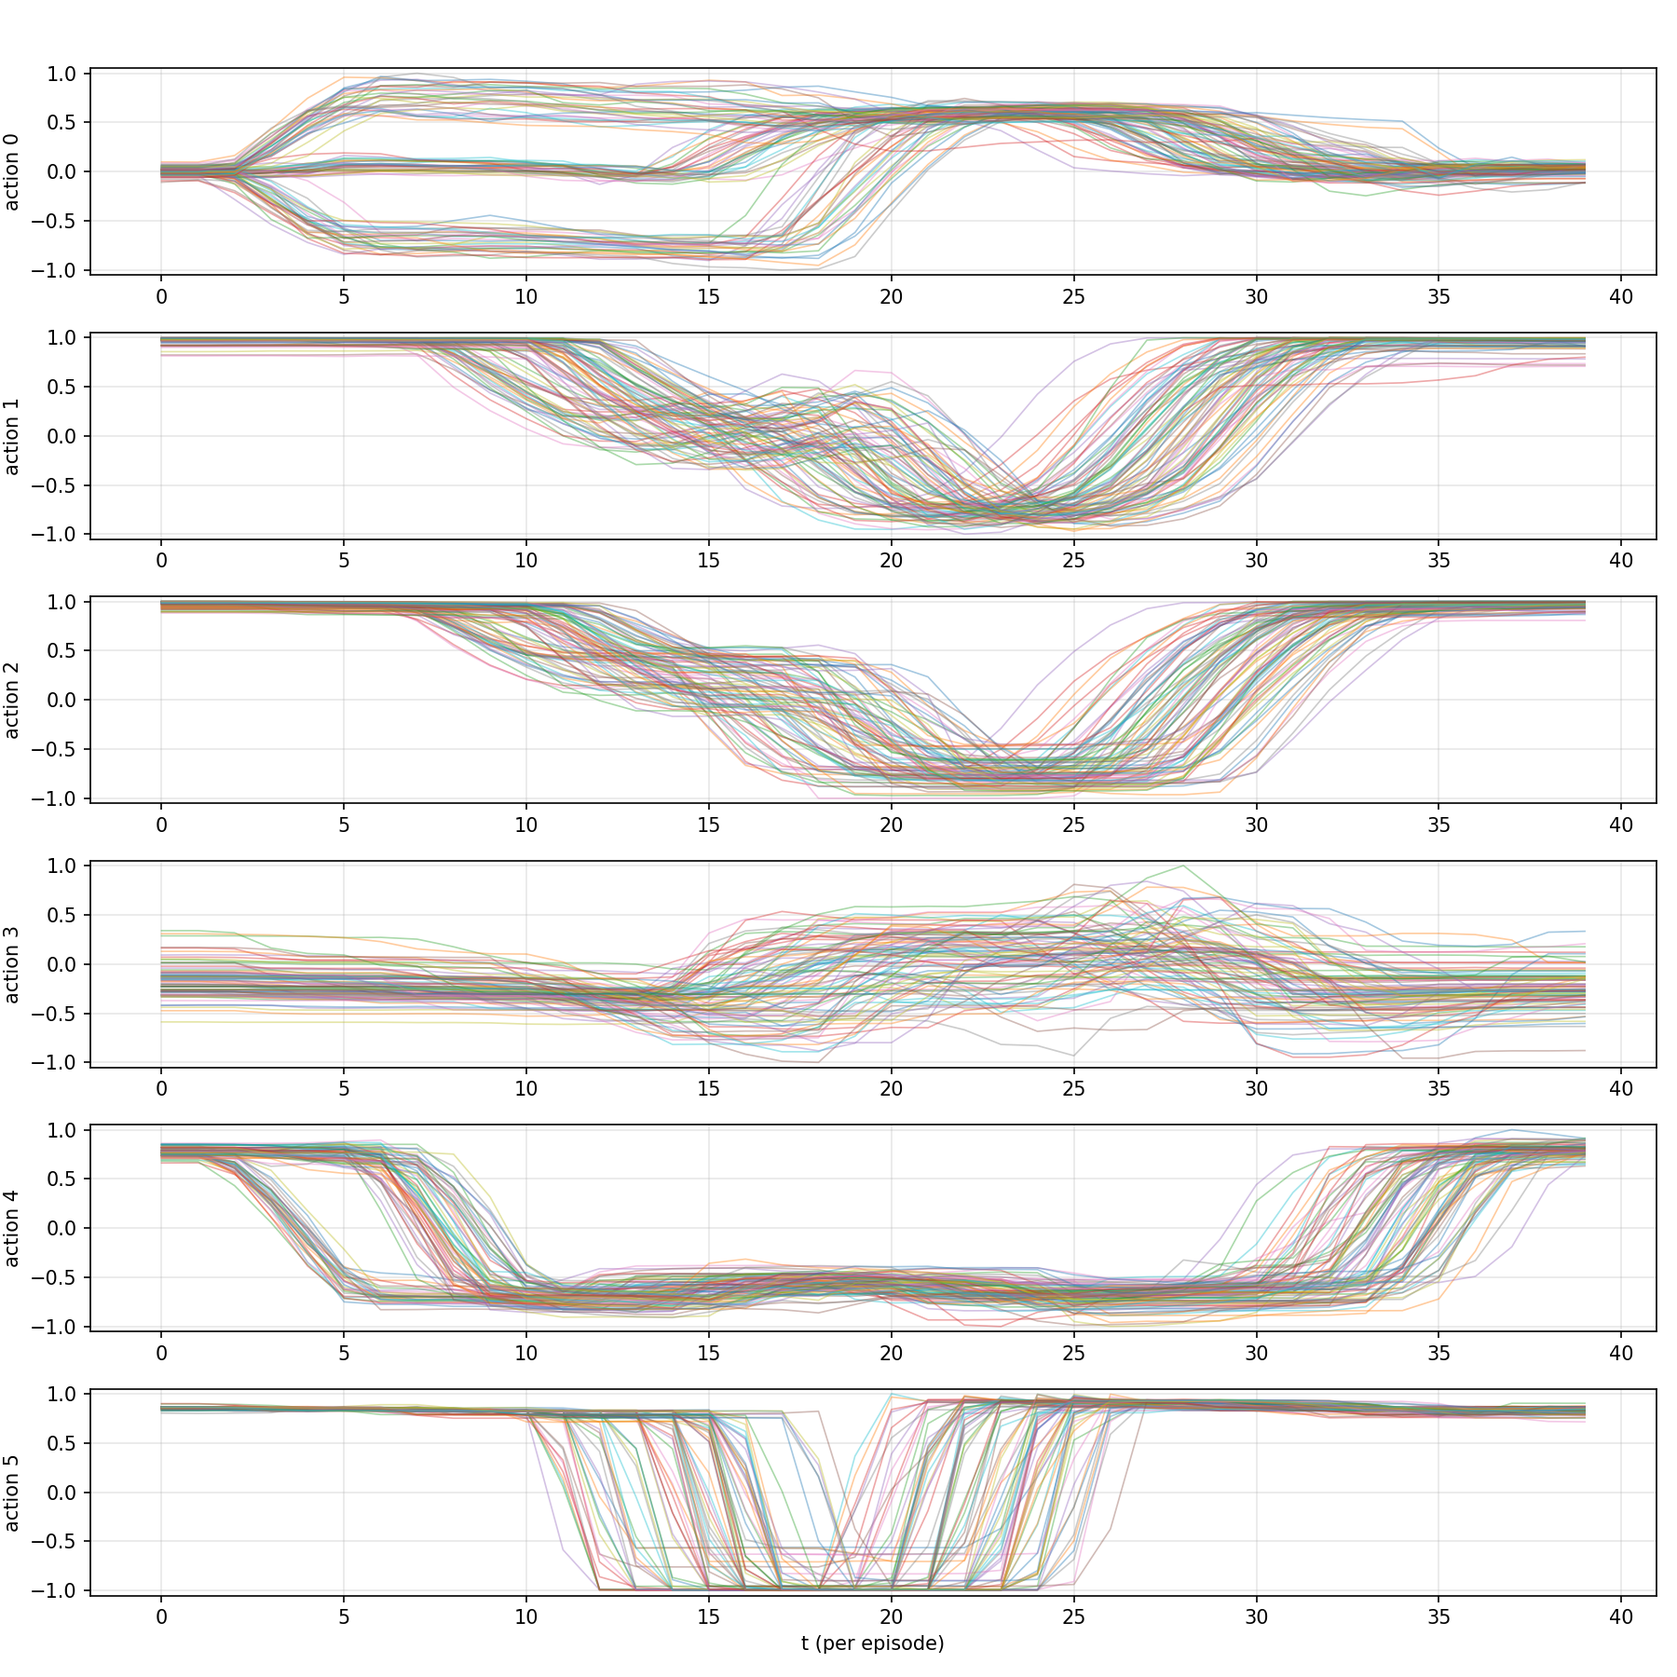
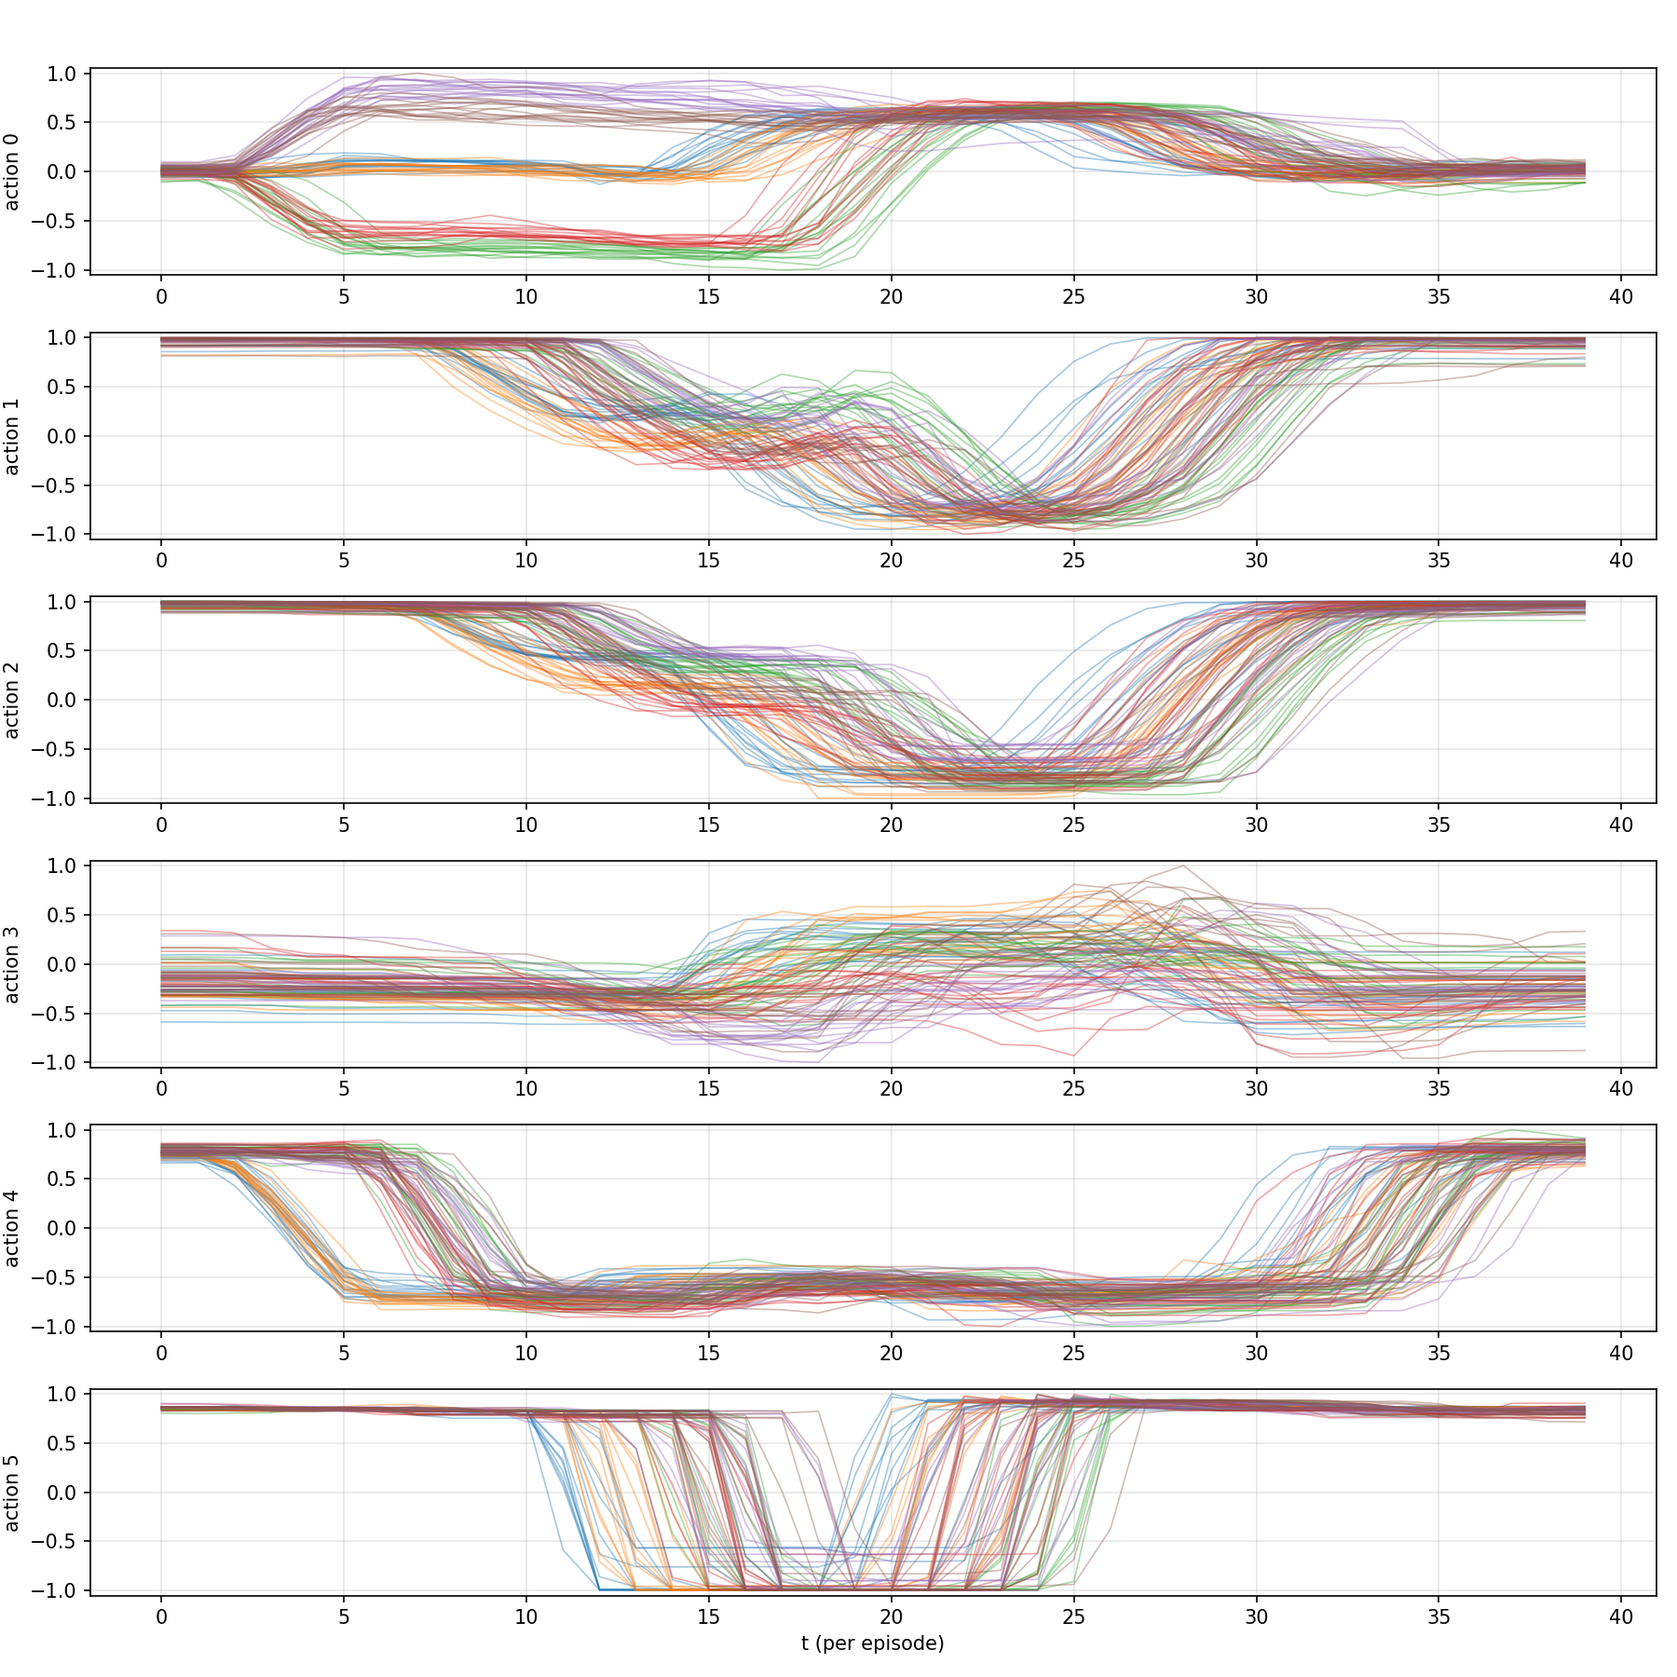
予測グラフおよびグラフの線の色を変更

diff --git a/kadai3 /src/utils/app_helpers.py b/kadai3 /src/utils/app_helpers.py
@@ -31,6 +31,7 @@ def build_model(cfg, state_dim: int, action_dim: int) -> nn.Module:
         output_dim=action_dim,
         num_layers=cfg.policy.num_layers,
         rnn_type=cfg.policy.rnn_type,
+        action_horizon=getattr(cfg.policy, "action_horizon", 1),
     )
     return VisionPolicyModel(vision=vision, policy=policy)
 
@@ -57,7 +58,7 @@ def save_action_figs(pred_all: np.ndarray, gt_all: np.ndarray | None, fig_dir: P
         return
     pred_s = _moving_avg(pred_all, win=5)
     gt_s = _moving_avg(gt_all, win=5) if gt_all is not None else None
-    if prefix == "online":
+    if prefix.startswith("online"):
         pred_s = np.clip(pred_s, -1.0, 1.0)
         if gt_s is not None:
             gt_s = np.clip(gt_s, -1.0, 1.0)
@@ -69,7 +70,7 @@ def save_action_figs(pred_all: np.ndarray, gt_all: np.ndarray | None, fig_dir: P
         ax.plot(pred_s[:, d], label="pred", linewidth=1.0)
         if gt_s is not None:
             ax.plot(gt_s[:, d], label="follower", linewidth=1.0)
-        if prefix == "online":
+        if prefix.startswith("online"):
             ax.set_ylim(-1.05, 1.05)
         ax.set_title(f"{prefix} action dim {d} (smoothed)")
         ax.legend()
@@ -85,7 +86,7 @@ def save_action_figs(pred_all: np.ndarray, gt_all: np.ndarray | None, fig_dir: P
         ax.plot(pred_s[:, d], label="pred", linewidth=1.0)
         if gt_s is not None:
             ax.plot(gt_s[:, d], label="follower", linewidth=1.0)
-        if prefix == "online":
+        if prefix.startswith("online"):
             ax.set_ylim(-1.05, 1.05)
         ax.set_title(f"Action dim {d} (smoothed)")
         ax.legend()
@@ -94,6 +95,69 @@ def save_action_figs(pred_all: np.ndarray, gt_all: np.ndarray | None, fig_dir: P
         axes[r][c].axis("off")
     fig.tight_layout()
     fig.savefig(fig_dir / f"{prefix}_action_all.png", dpi=150, bbox_inches="tight")
+    plt.close(fig)
+
+    # 実機推論の可視化用: 全次元を1枚に重ねて描画
+    if prefix == "offline_replay":
+        fig = plt.figure(figsize=(12, 4))
+        ax = fig.add_subplot(111)
+        for d in range(n_dims):
+            ax.plot(pred_s[:, d], linewidth=1.0, label=f"pred {d}")
+        if gt_s is not None:
+            for d in range(n_dims):
+                ax.plot(gt_s[:, d], linewidth=1.0, linestyle="--", label=f"state {d}")
+        ax.set_ylim(-1.05, 1.05)
+        ax.set_title("offline_replay action (all dims)")
+        ax.set_xlabel("t")
+        ax.set_ylabel("value (normalized)")
+        ax.legend(ncol=3, fontsize=8)
+        fig.tight_layout()
+        fig.savefig(fig_dir / f"{prefix}_action_all_overlay.png", dpi=150, bbox_inches="tight")
+        plt.close(fig)
+
+
+def save_chunked_action_overlay(
+    pred_all: np.ndarray,
+    gt_all: np.ndarray | None,
+    chunk_starts: list[int],
+    fig_dir: Path,
+    prefix: str,
+    title: str | None = None,
+    label_gt: str = "state",
+) -> None:
+    import matplotlib.pyplot as plt
+
+    if pred_all.size == 0:
+        return
+    pred_s = _moving_avg(pred_all, win=5)
+    if prefix.startswith("online"):
+        pred_s = np.clip(pred_s, -1.0, 1.0)
+    n_dims = pred_s.shape[1]
+
+    fig, axes = plt.subplots(nrows=n_dims, ncols=1, figsize=(12, 2 * n_dims), sharex=True)
+    if n_dims == 1:
+        axes = [axes]
+    for d, ax in enumerate(axes):
+        for i, start in enumerate(chunk_starts):
+            end = chunk_starts[i + 1] if i + 1 < len(chunk_starts) else pred_s.shape[0]
+            x = np.arange(start, end)
+            ax.plot(x, pred_s[start:end, d], linewidth=1.0, alpha=0.8, label="pred" if i == 0 else None)
+        if gt_all is not None:
+            gt_s = _moving_avg(gt_all, win=5)
+            if prefix.startswith("online"):
+                gt_s = np.clip(gt_s, -1.0, 1.0)
+            ax.plot(np.arange(gt_s.shape[0]), gt_s[:, d], linestyle="--", linewidth=1.0, label=label_gt)
+        for x0 in chunk_starts:
+            ax.axvline(x0, color="k", linestyle=":", linewidth=0.6, alpha=0.5)
+        ax.set_ylim(-1.05, 1.05)
+        ax.set_ylabel(f"dim {d}")
+        ax.grid(True, alpha=0.3)
+        if d == 0:
+            ax.legend(fontsize=8)
+    axes[-1].set_xlabel("t (observation index)")
+    fig.suptitle(title or "offline_replay action (chunked)", y=1.02)
+    fig.tight_layout()
+    fig.savefig(fig_dir / f"{prefix}_action_all_overlay.png", dpi=150, bbox_inches="tight")
     plt.close(fig)
 
 
@@ -114,12 +178,25 @@ def save_follower_plots(
     n_dims = episodes_norm[0].shape[1]
 
     def _plot_series(data_eps: list[np.ndarray], title: str, out_name: str) -> None:
+        palette = [
+            "#1f77b4",
+            "#ff7f0e",
+            "#2ca02c",
+            "#d62728",
+            "#9467bd",
+            "#8c564b",
+            "#e377c2",
+            "#7f7f7f",
+            "#bcbd22",
+            "#17becf",
+        ]
         fig, axes = plt.subplots(nrows=n_dims, ncols=1, figsize=(12, 2 * n_dims), sharex=False)
         if n_dims == 1:
             axes = [axes]
         for d, ax in enumerate(axes):
-            for ep in data_eps:
-                ax.plot(ep[:, d], linewidth=0.8, alpha=0.4)
+            for i, ep in enumerate(data_eps):
+                color = palette[(i // 15) % len(palette)]
+                ax.plot(ep[:, d], linewidth=0.8, alpha=0.4, color=color)
             ax.set_ylim(-1.05, 1.05)
             ax.set_ylabel(f"joint {d}")
             ax.grid(True, alpha=0.3)
@@ -181,6 +258,8 @@ def online_test(
             state = state.to(device)
             action = action.to(device)
             pred, _, _ = model(image, state)
+            if pred.ndim == 4:
+                pred = pred[:, :, 0, :]
 
             pred_np = pred.detach().cpu().numpy().reshape(-1, pred.shape[-1])
             gt_np = action.detach().cpu().numpy().reshape(-1, action.shape[-1])
@@ -257,6 +336,7 @@ def run_replay(cfg, model: nn.Module, state_norm: Normalizer, action_norm: Norma
             time.sleep(0.2)
 
     pred_actions: list[np.ndarray] = []
+    gt_states: list[np.ndarray] = []
     frames: list[Image.Image] = []
 
     print(
@@ -272,6 +352,12 @@ def run_replay(cfg, model: nn.Module, state_norm: Normalizer, action_norm: Norma
     model.eval()
 
     h: torch.Tensor | None = None
+    action_horizon = int(getattr(cfg.policy, "action_horizon", 1) or 1)
+    action_chunk = int(getattr(cfg.replay, "action_chunk", 1) or 1)
+    chunk = max(action_horizon, action_chunk, 1)
+    cached_actions: np.ndarray | None = None
+    cached_idx = 0
+    chunk_starts: list[int] = []
     # --- 2. リアルタイム制御ループ（指定ステップ数分繰り返す） ---
     for step_idx in range(int(cfg.replay.steps)):
         # カメラ映像とロボットの現在の関節角度（state）を取得
@@ -330,18 +416,27 @@ def run_replay(cfg, model: nn.Module, state_norm: Normalizer, action_norm: Norma
         state_in = torch.tensor(state_np, dtype=torch.float32, device=device).unsqueeze(0)  # [1,1,D]
 
         # --- 5. モデルによる推論（意思決定） ---
-        with torch.no_grad():
-            action_seq, h = model.forward_step(image_in, state_in, h)
-            h = h.detach() if h is not None else None
-            action_normed = action_seq[0, 0].detach().cpu().numpy()
+        if step_idx % chunk == 0 or cached_actions is None or cached_idx >= len(cached_actions):
+            with torch.no_grad():
+                action_seq, h = model.forward_step(image_in, state_in, h)
+                h = h.detach() if h is not None else None
+                if action_seq.ndim == 4:
+                    cached_actions = action_seq[0, 0].detach().cpu().numpy()
+                else:
+                    cached_actions = action_seq[0, 0].detach().cpu().numpy()[None, :]
+            cached_idx = 0
+            chunk_starts.append(len(pred_actions))
+        action_normed = cached_actions[min(cached_idx, len(cached_actions) - 1)]
+        cached_idx += 1
         print(f"Action predicted (normalized): {action_normed}")
-        
+
         # 正規化された数値を「実際のロボットの角度」に復元（逆正規化）
         action = action_norm.denormalize(action_normed)
         action_t = torch.tensor(action, dtype=torch.float32)
-        
+
         # グラフ作成用に推論結果を記録（正規化スケールのまま）
         pred_actions.append(action_normed)
+        gt_states.append(state_np[0].copy())
 
         # --- 6. ロボットへの指令送信 ---
         if cfg.replay.send_action:
@@ -351,9 +446,73 @@ def run_replay(cfg, model: nn.Module, state_norm: Normalizer, action_norm: Norma
                 fps=cfg.replay.fps,
             )
 
+        # 可視化用に途中経過を保存（重いので間引く）
+        viz_every = int(getattr(cfg.replay, "viz_every", 10) or 10)
+        if viz_every > 0 and (step_idx + 1) % viz_every == 0:
+            pred_arr = np.asarray(pred_actions, dtype=np.float32)
+            gt_arr = np.asarray(gt_states, dtype=np.float32)
+            if pred_arr.shape[1] != gt_arr.shape[1]:
+                d = min(pred_arr.shape[1], gt_arr.shape[1])
+                pred_arr = pred_arr[:, :d]
+                gt_arr = gt_arr[:, :d]
+            save_action_figs(pred_all=pred_arr, gt_all=gt_arr, fig_dir=fig_dir, prefix="offline_replay")
+
     # 全ステップ終了後、アクションの推移グラフを保存して終了
     if pred_actions:
-        save_action_figs(pred_all=np.asarray(pred_actions, dtype=np.float32), gt_all=None, fig_dir=fig_dir, prefix="offline")
+        pred_arr = np.asarray(pred_actions, dtype=np.float32)
+        gt_arr = np.asarray(gt_states, dtype=np.float32) if gt_states else None
+        if gt_arr is not None and pred_arr.shape[1] != gt_arr.shape[1]:
+            d = min(pred_arr.shape[1], gt_arr.shape[1])
+            pred_arr = pred_arr[:, :d]
+            gt_arr = gt_arr[:, :d]
+        save_action_figs(pred_all=pred_arr, gt_all=gt_arr, fig_dir=fig_dir, prefix="offline_replay")
+        if chunk_starts:
+            # 実機フォロワーとの比較
+            save_chunked_action_overlay(
+                pred_all=pred_arr,
+                gt_all=gt_arr,
+                chunk_starts=chunk_starts,
+                fig_dir=fig_dir,
+                prefix="offline_replay",
+                title="offline_replay action (vs real follower)",
+                label_gt="real follower",
+            )
+            # 学習時フォロワーとの比較
+            train_eps, test_eps = load_episodes(cfg)
+            train_states = [np.asarray(ep["state"], dtype=np.float32) for ep in (train_eps + test_eps)]
+            if train_states:
+                train_all = np.concatenate(train_states, axis=0).astype(np.float32)
+                train_norm = state_norm.normalize(train_all)
+                save_chunked_action_overlay(
+                    pred_all=pred_arr,
+                    gt_all=train_norm,
+                    chunk_starts=chunk_starts,
+                    fig_dir=fig_dir,
+                    prefix="offline_replay_train",
+                    title="offline_replay action (vs train follower)",
+                    label_gt="train follower",
+                )
+                # 右側に joint_states_normalized を並べて1枚にする
+                try:
+                    from PIL import Image
+
+                    left_path = fig_dir / "offline_replay_train_action_all_overlay.png"
+                    right_path = fig_dir / "joint_states_normalized.png"
+                    if left_path.exists() and right_path.exists():
+                        left = Image.open(left_path).convert("RGB")
+                        right = Image.open(right_path).convert("RGB")
+                        height = max(left.height, right.height)
+                        # 高さを揃える
+                        if left.height != height:
+                            left = left.resize((int(left.width * height / left.height), height))
+                        if right.height != height:
+                            right = right.resize((int(right.width * height / right.height), height))
+                        merged = Image.new("RGB", (left.width + right.width, height), (255, 255, 255))
+                        merged.paste(left, (0, 0))
+                        merged.paste(right, (left.width, 0))
+                        merged.save(left_path)
+                except Exception:
+                    pass
 
     if frames:
         gif_path = fig_dir / "online_camera.gif"

diff --git a/kadai3 /src/models/policy.py b/kadai3 /src/models/policy.py
@@ -12,8 +12,10 @@ class PolicyNetwork(nn.Module):
         output_dim: int,
         num_layers: int = 1,
         rnn_type: str = "rnn",
+        action_horizon: int = 1,
     ):
         super().__init__()
+        self.action_horizon = int(action_horizon)
         rnn_type = rnn_type.lower()
         if rnn_type == "gru":
             self.rnn = nn.GRU(input_dim, hidden_dim, num_layers=num_layers, batch_first=True)
@@ -21,7 +23,8 @@ class PolicyNetwork(nn.Module):
             self.rnn = nn.RNN(input_dim, hidden_dim, num_layers=num_layers, batch_first=True)
         else:
             raise ValueError(f"Unsupported rnn_type: {rnn_type}")
-        self.head = nn.Linear(hidden_dim, output_dim)
+        # 出力ヘッドの次元を拡張
+        self.head = nn.Linear(hidden_dim, output_dim * max(self.action_horizon, 1))
 
     def forward(
         self,
@@ -32,7 +35,12 @@ class PolicyNetwork(nn.Module):
         # features: [B, S, F], state: [B, S, Dq] -> action_hat: [B, S, Da]
         x = torch.cat([features, state], dim=-1)
         out, h_next = self.rnn(x, h)
-        return self.head(out), h_next
+        pred = self.head(out)
+        if self.action_horizon > 1:
+            # 出力を[B,T,K,Daに整形]
+            b, t, _ = pred.shape
+            pred = pred.view(b, t, self.action_horizon, -1)
+        return pred, h_next
 
     def forward_step(
         self,
@@ -43,4 +51,8 @@ class PolicyNetwork(nn.Module):
         # features/state: [B, 1, *] -> action_hat: [B, 1, Da]
         x = torch.cat([features, state], dim=-1)
         out, h_next = self.rnn(x, h)
-        return self.head(out), h_next
+        pred = self.head(out)
+        if self.action_horizon > 1:
+            b, t, _ = pred.shape
+            pred = pred.view(b, t, self.action_horizon, -1)
+        return pred, h_next

diff --git a/kadai3 /src/trainer/trainer.py b/kadai3 /src/trainer/trainer.py
@@ -33,7 +33,16 @@ class Trainer:
                 noise = torch.randn_like(state) * self.state_noise_std
                 state = state + noise
             pred, _, recon = self.model(image, state)
-            loss_action = self.loss_fn(pred, action)
+            if pred.ndim == 4:
+                # pred: [B,T,K,Da], action: [B,T,Da]なので形が合わない。ゆえに、actionをK個にずらして積み重ねる
+                b, t, k, da = pred.shape
+                if t < k:
+                    raise RuntimeError("Sequence length is shorter than action_horizon.")
+                target = torch.stack([action[:, i : i + t - k + 1, :] for i in range(k)], dim=2)
+                pred_use = pred[:, : t - k + 1, :, :]
+                loss_action = self.loss_fn(pred_use, target)
+            else:
+                loss_action = self.loss_fn(pred, action)
             loss_recon = self.loss_fn(recon, image)
             loss = loss_action + (1.0 * loss_recon)
             if train:

diff --git a/kadai3 /plot_joint_normalized.py b/kadai3 /plot_joint_normalized.py
@@ -49,9 +49,22 @@ def _plot_normalized(episodes: list[np.ndarray], title: str, out_name: str, ylab
     fig, axes = plt.subplots(nrows=n_dims, ncols=1, figsize=(12, 2 * n_dims), sharex=False)
     if n_dims == 1:
         axes = [axes]
+    palette = [
+        "#1f77b4",
+        "#ff7f0e",
+        "#2ca02c",
+        "#d62728",
+        "#9467bd",
+        "#8c564b",
+        "#e377c2",
+        "#7f7f7f",
+        "#bcbd22",
+        "#17becf",
+    ]
     for d, ax in enumerate(axes):
-        for ep in episodes_norm:
-            ax.plot(ep[:, d], linewidth=0.8, alpha=0.4)
+        for i, ep in enumerate(episodes_norm):
+            color = palette[(i // 15) % len(palette)]
+            ax.plot(ep[:, d], linewidth=0.8, alpha=0.4, color=color)
         ax.set_ylim(-1.05, 1.05)
         ax.set_ylabel(f"{ylabel_prefix} {d}")
         ax.grid(True, alpha=0.3)

diff --git a/kadai3 /use_followerdata.py b/kadai3 /use_followerdata.py
@@ -139,6 +139,8 @@ def main(cfg):
 
         with torch.no_grad():
             action_seq, _, _ = model(image_in, state_in)
+            if action_seq.ndim == 4:
+                action_seq = action_seq[:, :, 0, :]
             action_normed = action_seq[0, -1].detach().cpu().numpy()
         action = action_norm.denormalize(action_normed)
         action_t = torch.tensor(action, dtype=torch.float32)

diff --git a/kadai3 /use_image.py b/kadai3 /use_image.py
@@ -126,6 +126,8 @@ def main(cfg):
 
         with torch.no_grad():
             action_seq, _, _ = model(image_in, state_in)
+            if action_seq.ndim == 4:
+                action_seq = action_seq[:, :, 0, :]
             action_normed = action_seq[0, -1].detach().cpu().numpy()
         action = action_norm.denormalize(action_normed)
         action_t = torch.tensor(action, dtype=torch.float32)

diff --git a/kadai3 /src/config_schema.py b/kadai3 /src/config_schema.py
@@ -54,6 +54,7 @@ class PolicyConfig:
     rnn_type: str = "rnn"
     hidden_dim: int = 128
     num_layers: int = 1
+    action_horizon: int = 1
 
 
 @dataclass
